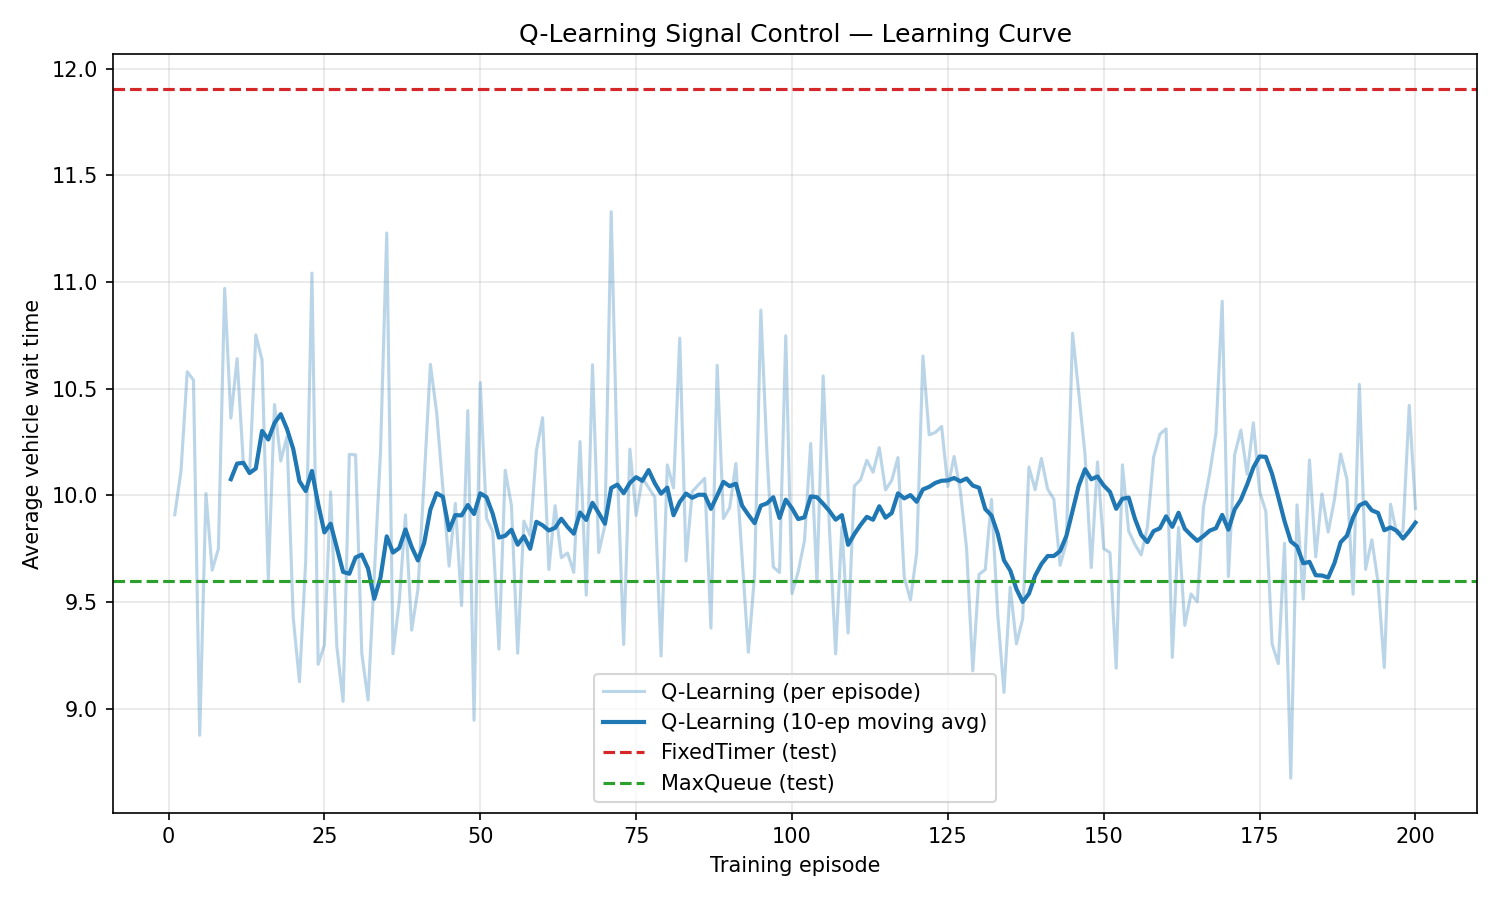
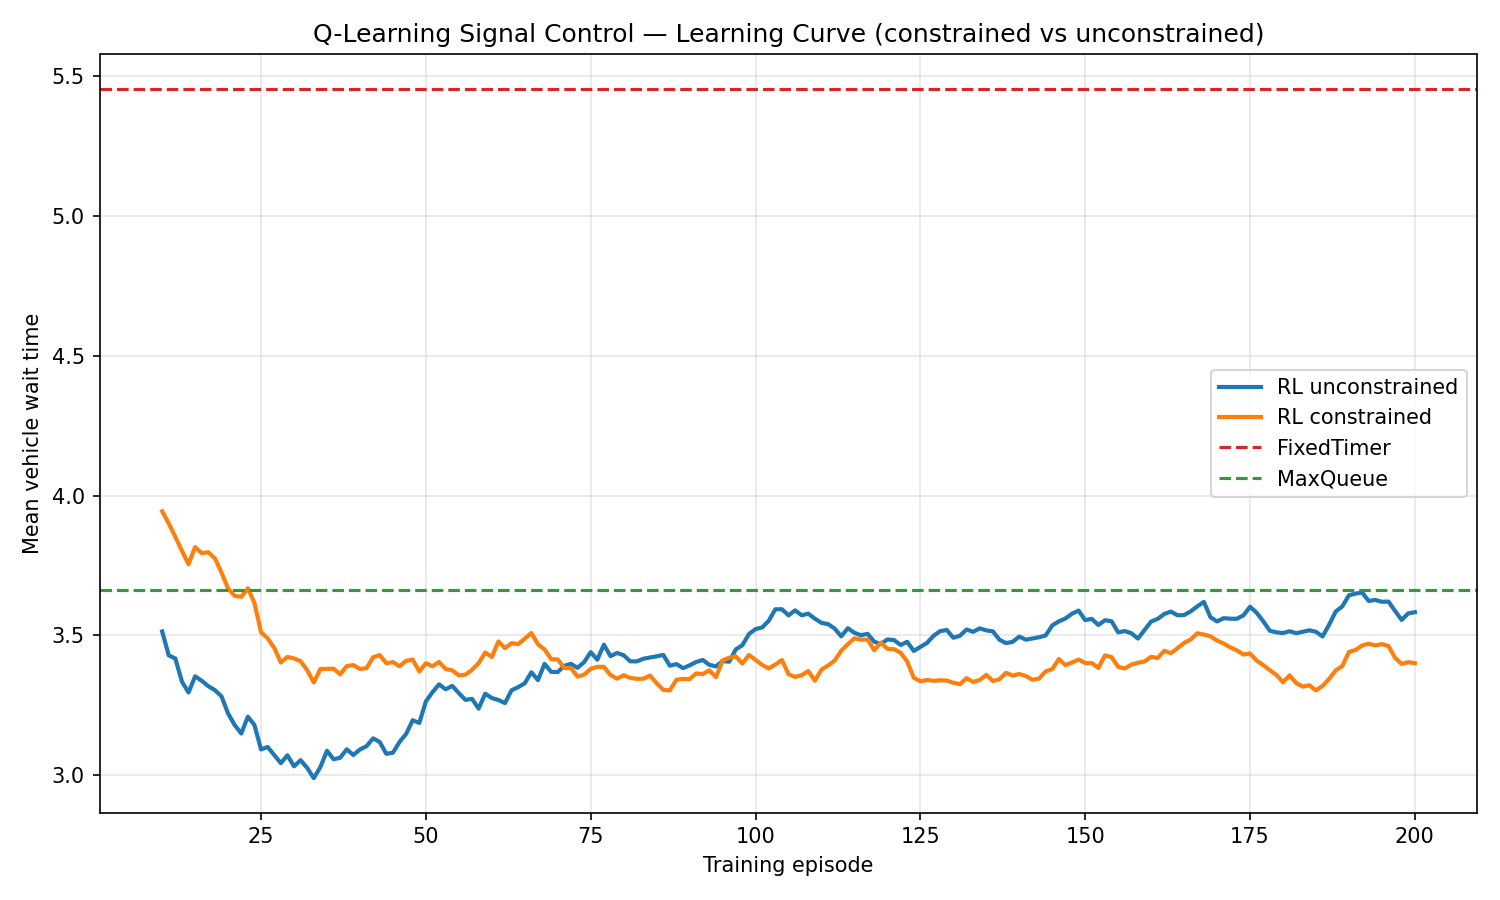
Enforce signal-timing safety constraints and report p95 wait
train_rl.py: add SafetyGovernor (min-green 5, max-red 30) filtering the
agent's action; train constrained and unconstrained agents and compare
both to FixedTimer/MaxQueue with mean and p95 vehicle wait on test
seeds. grid.py: track per-vehicle wait times (completed_waits) to enable
percentile metrics and fix over-counting in the aggregate wait.

diff --git a/train_rl.py b/train_rl.py
@@ -1,10 +1,19 @@
-"""Train the QTableAgent to control the Intersection2D signal.
+"""Train the QTableAgent to control the Intersection2D signal, with an
+optional safety layer on signal timing.
 
-The agent observes bucketised queue counts (state), chooses a green phase
-(action), and is rewarded by the negative of the waiting time incurred each
-step. After 200 training episodes it is evaluated greedily against the
-FixedTimer and MaxQueue baselines on the same held-out test seeds, and the
-per-episode training wait time is saved as rl_learning_curve.png.
+Two safety constraints are enforced by a SafetyGovernor that filters the
+agent's raw action before it reaches the environment:
+
+  * minimum green : a phase must stay green for at least MIN_GREEN steps
+                    before the agent is allowed to switch it.
+  * maximum red   : no approach may stay red for more than MAX_RED steps;
+                    once the current phase has been green that long, a switch
+                    is forced so the opposing approach is served.
+
+We train one unconstrained agent and one constrained agent (governor active
+during training and evaluation), then compare both against the FixedTimer and
+MaxQueue baselines on held-out test seeds, reporting mean and 95th-percentile
+vehicle wait time.
 """
 
 import matplotlib.pyplot as plt
@@ -20,108 +29,165 @@ EVAL_STEPS = 1000
 ARM_LENGTH = 12
 P_ARRIVAL = 0.4
 
+MIN_GREEN = 5     # minimum green phase duration (steps)
+MAX_RED = 30      # maximum time an approach may stay red (steps)
+
 # training seeds are disjoint from the test seeds so evaluation is held out.
 TRAIN_SEED_BASE = 1000
 TEST_SEEDS = (0, 1, 2)
+
+
+class SafetyGovernor:
+    """Filter a requested phase to honour min-green and max-red constraints."""
+
+    def __init__(self, min_green=MIN_GREEN, max_red=MAX_RED):
+        self.min_green = int(min_green)
+        self.max_red = int(max_red)
+        self.phase = Intersection2D.PHASE_NS
+        self.time_in_phase = 0
+
+    def filter(self, requested):
+        if self.time_in_phase >= self.max_red:
+            chosen = 1 - self.phase                 # force switch: red too long
+        elif self.time_in_phase < self.min_green:
+            chosen = self.phase                     # hold: green too short
+        else:
+            chosen = int(requested)                 # obey the agent
+
+        if chosen != self.phase:
+            self.phase = chosen
+            self.time_in_phase = 1
+        else:
+            self.time_in_phase += 1
+        return chosen
 
 
 def make_env(seed):
     return Intersection2D(arm_length=ARM_LENGTH, p_arrival=P_ARRIVAL, seed=seed)
 
 
-def avg_wait(inter):
-    """Mean vehicle-steps spent blocked per vehicle that crossed."""
-    return inter.total_wait_steps / max(inter.total_crossed, 1)
-
-
-def run_controller(act, seed, steps):
-    """Run a controller (act(inter) -> phase) for ``steps`` steps."""
-    inter = make_env(seed)
-    for _ in range(steps):
-        inter.step(phase=act(inter))
-    return avg_wait(inter)
-
-
-def train(agent):
-    """Train ``agent`` for EPISODES episodes; return per-episode wait times."""
+# ------------------------------------------------------------------ training
+def train(agent, constrained):
+    """Train ``agent`` for EPISODES episodes; return per-episode mean wait."""
     curve = []
     for ep in range(EPISODES):
         inter = make_env(TRAIN_SEED_BASE + ep)
+        gov = SafetyGovernor() if constrained else None
         state = agent.discretize(inter.queue_counts())
         for t in range(EPISODE_STEPS):
             action = agent.select_action(state)
+            applied = gov.filter(action) if gov else action
 
             before = inter.total_wait_steps
-            inter.step(phase=action)
+            inter.step(phase=applied)
             reward = -float(inter.total_wait_steps - before)   # penalise waiting
 
             next_state = agent.discretize(inter.queue_counts())
-            agent.learn(state, action, reward, next_state,
+            # learn on the action actually executed (post-safety filter).
+            agent.learn(state, applied, reward, next_state,
                         done=(t == EPISODE_STEPS - 1))
             state = next_state
 
         agent.decay_epsilon()
-        curve.append(avg_wait(inter))
-        if (ep + 1) % 20 == 0:
-            print(f"episode {ep + 1:3d}/{EPISODES}  "
-                  f"avg_wait={curve[-1]:6.3f}  eps={agent.epsilon:.3f}  "
-                  f"states={agent.num_states}")
+        waits = inter.completed_waits
+        curve.append(float(np.mean(waits)) if waits else 0.0)
+        if (ep + 1) % 40 == 0:
+            print(f"  episode {ep + 1:3d}/{EPISODES}  "
+                  f"mean_wait={curve[-1]:6.3f}  eps={agent.epsilon:.3f}")
     return curve
 
 
-def evaluate(agent):
-    """Greedy evaluation of all three controllers on the test seeds."""
-    agent.epsilon = 0.0
+# ---------------------------------------------------------------- evaluation
+def collect_waits(act, seed, steps, governor=None):
+    """Run a policy for ``steps`` steps; return the list of per-vehicle waits."""
+    inter = make_env(seed)
+    for _ in range(steps):
+        action = act(inter)
+        if governor is not None:
+            action = governor.filter(action)
+        inter.step(phase=action)
+    return inter.completed_waits
 
-    def rl_act(inter):
+
+def rl_policy(agent):
+    """Greedy action function for a trained agent."""
+    def act(inter):
         return agent.select_action(agent.discretize(inter.queue_counts()))
+    return act
 
-    # a fresh controller instance per seed keeps MaxQueue's dwell state clean.
-    factories = {
-        "Q-Learning": lambda: rl_act,
-        FixedTimerController.name: lambda: FixedTimerController(12).act,
-        MaxQueueController.name: lambda: MaxQueueController(5).act,
+
+def summarize(list_of_wait_lists):
+    """Pool per-vehicle waits across seeds; return (mean, p95)."""
+    pooled = np.concatenate([np.asarray(w) for w in list_of_wait_lists])
+    return float(pooled.mean()), float(np.percentile(pooled, 95))
+
+
+def evaluate(agent_unc, agent_con):
+    agent_unc.epsilon = 0.0
+    agent_con.epsilon = 0.0
+
+    # each entry: name -> (act-factory, governor-factory or None)
+    policies = {
+        "RL unconstrained": (lambda: rl_policy(agent_unc), lambda: None),
+        "RL constrained": (lambda: rl_policy(agent_con), lambda: SafetyGovernor()),
+        FixedTimerController.name: (lambda: FixedTimerController(12).act,
+                                    lambda: None),
+        MaxQueueController.name: (lambda: MaxQueueController(5).act,
+                                  lambda: None),
     }
 
     results = {}
-    for name, factory in factories.items():
-        waits = [run_controller(factory(), s, EVAL_STEPS) for s in TEST_SEEDS]
-        results[name] = float(np.mean(waits))
+    for name, (make_act, make_gov) in policies.items():
+        per_seed = [collect_waits(make_act(), s, EVAL_STEPS, make_gov())
+                    for s in TEST_SEEDS]
+        results[name] = summarize(per_seed)
     return results
 
 
+# --------------------------------------------------------------------- main
 def main():
-    agent = QTableAgent(n_phases=2, alpha=0.1, gamma=0.9, epsilon=1.0,
-                        epsilon_min=0.05, epsilon_decay=0.97, seed=0)
+    print("Training unconstrained agent...")
+    agent_unc = QTableAgent(n_phases=2, alpha=0.1, gamma=0.9, epsilon=1.0,
+                            epsilon_min=0.05, epsilon_decay=0.97, seed=0)
+    curve_unc = train(agent_unc, constrained=False)
 
-    print(f"Training over {EPISODES} episodes "
-          f"({EPISODE_STEPS} steps each)...")
-    curve = train(agent)
+    print("Training constrained agent (min_green=%d, max_red=%d)..."
+          % (MIN_GREEN, MAX_RED))
+    agent_con = QTableAgent(n_phases=2, alpha=0.1, gamma=0.9, epsilon=1.0,
+                            epsilon_min=0.05, epsilon_decay=0.97, seed=0)
+    curve_con = train(agent_con, constrained=True)
 
     print("\nEvaluating on test seeds", TEST_SEEDS, "(greedy)...")
-    results = evaluate(agent)
-    print(f"\n{'Controller':<14}{'AvgWait (test)':>16}")
-    print("-" * 30)
-    for name, wait in sorted(results.items(), key=lambda kv: kv[1]):
-        print(f"{name:<14}{wait:>16.3f}")
+    results = evaluate(agent_unc, agent_con)
 
-    # learning curve with a moving-average overlay and baseline references.
+    print(f"\n{'Controller':<20}{'MeanWait':>12}{'p95Wait':>12}")
+    print("-" * 44)
+    for name, (mean_w, p95_w) in sorted(results.items(), key=lambda kv: kv[1][0]):
+        print(f"{name:<20}{mean_w:>12.3f}{p95_w:>12.3f}")
+
+    print(f"\nSteps/run: {EVAL_STEPS} | test seeds: {TEST_SEEDS} | "
+          f"safety: min_green={MIN_GREEN}, max_red={MAX_RED}")
+
+    # learning curves for both agents, with baseline mean-wait references.
     episodes = np.arange(1, EPISODES + 1)
     window = 10
-    smooth = np.convolve(curve, np.ones(window) / window, mode="valid")
+
+    def smooth(c):
+        return np.convolve(c, np.ones(window) / window, mode="valid")
 
     fig, ax = plt.subplots(figsize=(10, 6))
-    ax.plot(episodes, curve, color="tab:blue", alpha=0.3,
-            label="Q-Learning (per episode)")
-    ax.plot(episodes[window - 1:], smooth, color="tab:blue", linewidth=2,
-            label=f"Q-Learning ({window}-ep moving avg)")
-    ax.axhline(results[FixedTimerController.name], color="tab:red",
-               linestyle="--", label="FixedTimer (test)")
-    ax.axhline(results[MaxQueueController.name], color="tab:green",
-               linestyle="--", label="MaxQueue (test)")
+    ax.plot(episodes[window - 1:], smooth(curve_unc), color="tab:blue",
+            linewidth=2, label="RL unconstrained")
+    ax.plot(episodes[window - 1:], smooth(curve_con), color="tab:orange",
+            linewidth=2, label="RL constrained")
+    ax.axhline(results[FixedTimerController.name][0], color="tab:red",
+               linestyle="--", label="FixedTimer")
+    ax.axhline(results[MaxQueueController.name][0], color="tab:green",
+               linestyle="--", label="MaxQueue")
     ax.set_xlabel("Training episode")
-    ax.set_ylabel("Average vehicle wait time")
-    ax.set_title("Q-Learning Signal Control — Learning Curve")
+    ax.set_ylabel("Mean vehicle wait time")
+    ax.set_title("Q-Learning Signal Control — Learning Curve "
+                 "(constrained vs unconstrained)")
     ax.legend()
     ax.grid(True, alpha=0.3)
 

diff --git a/grid.py b/grid.py
@@ -30,11 +30,15 @@ class Intersection2D:
 
         # occupancy per approach: index 0 = tail (entrance), L-1 = stop line.
         self.lanes = {d: np.zeros(self.L, dtype=bool) for d in APPROACHES}
+        # accumulated blocked-steps of the vehicle occupying each cell.
+        self.waits = {d: np.zeros(self.L, dtype=int) for d in APPROACHES}
         self.phase = self.PHASE_NS
         self.time = 0
         self.total_crossed = 0
         # cumulative vehicle-steps spent blocked (used for mean wait time).
         self.total_wait_steps = 0
+        # per-vehicle total wait recorded when a vehicle crosses (for p95 etc.).
+        self.completed_waits = []
 
     # ------------------------------------------------------------------ state
     def is_green(self, approach):
@@ -66,12 +70,18 @@ class Intersection2D:
     def _advance_lane(self, approach):
         """Advance one approach by a single step; return vehicles that crossed."""
         occ = self.lanes[approach]
+        wait = self.waits[approach]
         new = occ.copy()
+        new_wait = wait.copy()
+        moved = np.zeros(self.L, dtype=bool)   # original vehicles that advanced
         crossed = 0
 
         # stop-line vehicle enters the crossing (leaves system) if green.
         if self.is_green(approach) and occ[-1]:
             new[-1] = False
+            moved[-1] = True
+            self.completed_waits.append(int(wait[-1]))
+            new_wait[-1] = 0
             crossed = 1
 
         # move remaining vehicles forward one cell if the cell ahead is free.
@@ -79,17 +89,23 @@ class Intersection2D:
         for i in range(self.L - 2, -1, -1):
             if occ[i] and not new[i + 1]:
                 new[i + 1] = True
+                new_wait[i + 1] = wait[i]   # carry the vehicle's wait forward
                 new[i] = False
+                new_wait[i] = 0
+                moved[i] = True
 
-        # a vehicle that stayed in the same cell (occupied before and after)
-        # was blocked this step -- count it toward total waiting time.
-        self.total_wait_steps += int((occ & new).sum())
+        # vehicles present that did not advance were blocked -> they waited.
+        stayed = occ & ~moved
+        new_wait[stayed] += 1
+        self.total_wait_steps += int(stayed.sum())
 
         # stochastic arrival at the tail if the entrance cell is free.
         if not new[0] and self.rng.random() < self.p_arrival:
             new[0] = True
+            new_wait[0] = 0
 
         self.lanes[approach] = new
+        self.waits[approach] = new_wait
         return crossed
 
     def step(self, phase=None):
